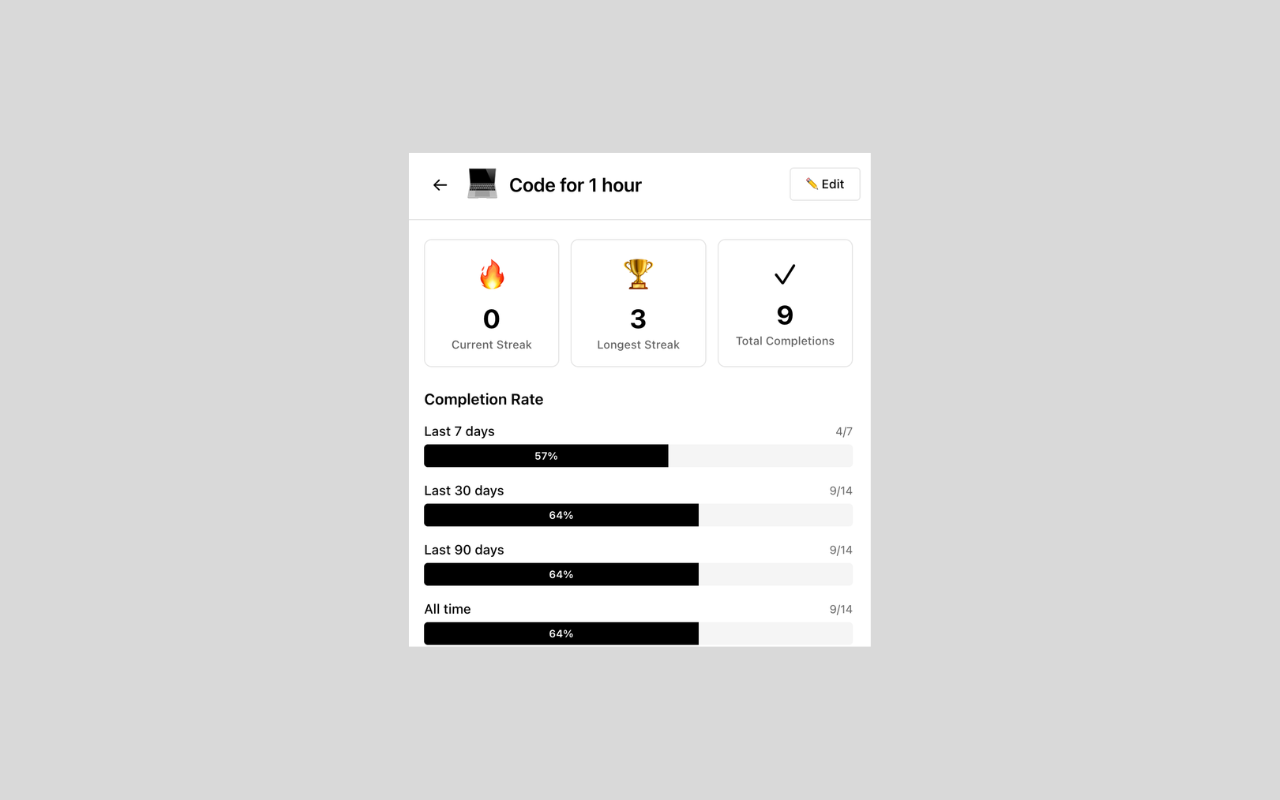
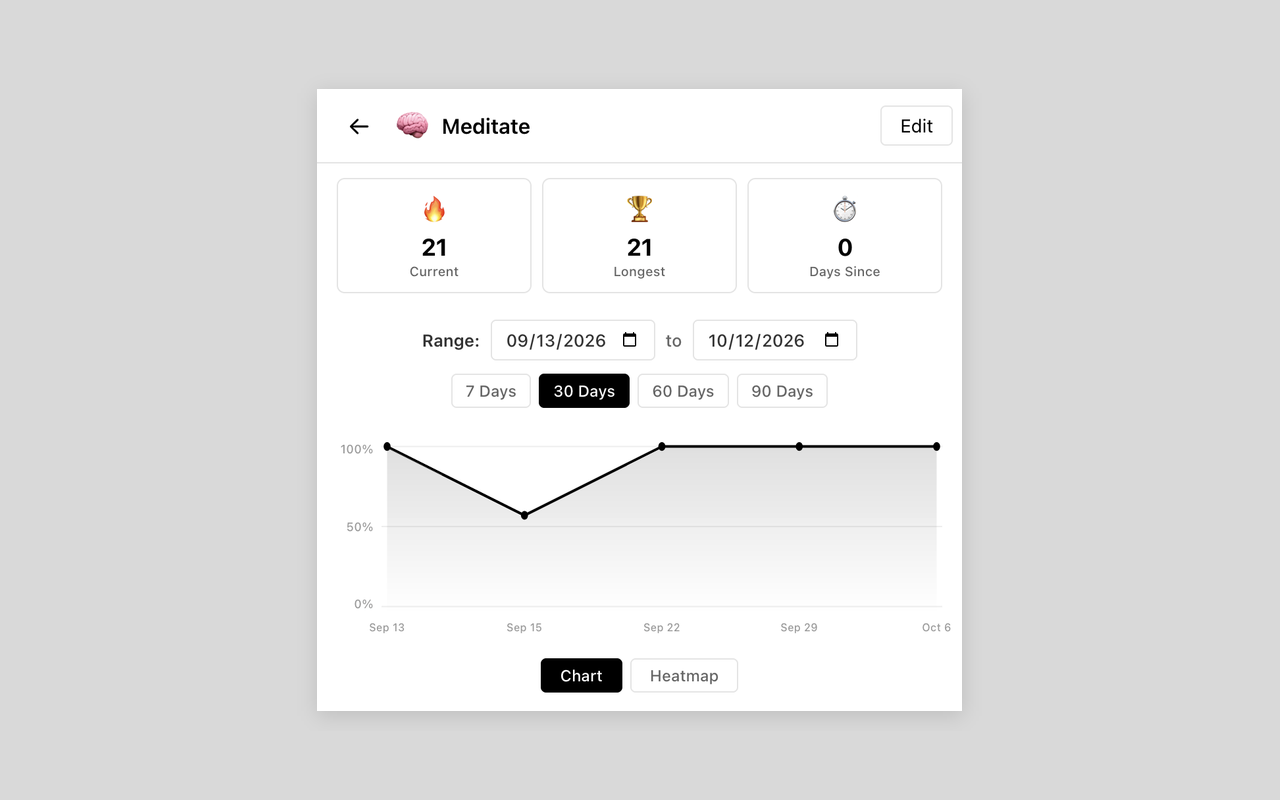
Refresh screenshots and README for v1.2.0

Changed region(s): [[0.25, 0.0938, 0.75, 0.9062]]

diff --git a/README.md b/README.md
@@ -1,9 +1,9 @@
 # 🔥 Streak Seeker
 
-A beautiful, privacy-first habit tracker Chrome extension. Track daily habits, build streaks, and visualize your progress—all without leaving your browser.
+A beautiful, privacy-first habit tracker Chrome extension. Track daily habits, build streaks, and visualize your progress, all without leaving your browser.
 
 [![Chrome Web Store](https://img.shields.io/badge/Chrome-Web%20Store-blue)](https://chromewebstore.google.com/detail/streak-seeker/jbldckdbhaibiejndigjmgdaacainphh?authuser=0&hl=en)
-[![Version](https://img.shields.io/badge/version-1.0.0-green)]()
+[![Version](https://img.shields.io/badge/version-1.2.0-green)]()
 [![License](https://img.shields.io/badge/license-MIT-blue)]()
 
 ![Streak Seeker Demo](./screenshots/main_view.png)
@@ -12,10 +12,15 @@ A beautiful, privacy-first habit tracker Chrome extension. Track daily habits, b
 
 - **🎯 Track Unlimited Habits** - Add as many habits as you want with custom emoji icons
 - **🔥 Visual Streak Tracking** - See your current streaks with fire emoji indicators
-- **📊 Interactive Heatmaps** - GitHub-style contribution graphs (7/30/90/180/365 days)
-- **📈 Detailed Stats** - Completion rates, perfect days, longest streaks
+- **📅 Today's Progress** - A progress bar on the main page shows how much of today is done
+- **📈 Line Charts** - Completion rate over time, with hover tooltips and automatic daily, weekly or monthly points
+- **📊 Heatmaps** - Calendar and GitHub-style heatmaps for any date range
+- **🗓 Custom Date Ranges** - Pick any start and end date (up to two years), or use the 7, 30, 60 and 90 day presets
+- **🏆 Habit Stats** - Current and longest streaks, days since last completed, and completion rate for your range versus since you started
+- **🥇 Overall Stats** - Completion rate, perfect days, average completions per day, and a ranking of your habits
+- **🗃 Archive Habits** - Retire a habit without losing its history; archived habits stop counting against your stats
 - **↕ Drag & Drop** - Reorder habits with smooth animations
-- **🕰 Time Travel** - Navigate through past dates to view historical data
+- **🕰 Time Travel** - Navigate through past dates on the main page
 - **🔒 100% Private** - All data stored locally using browser localStorage
 - **🚫 No Login Required** - Start tracking immediately
 - **⚡ Lightweight** - Fast and responsive
@@ -30,7 +35,7 @@ A beautiful, privacy-first habit tracker Chrome extension. Track daily habits, b
 ### From Source
 1. Clone the repository
 ```bash
-   git clone https://github.com/YOUR-USERNAME/streak-seeker.git
+   git clone https://github.com/iccir919/streak-seeker.git
    cd streak-seeker
 ```
 
@@ -61,19 +66,31 @@ A beautiful, privacy-first habit tracker Chrome extension. Track daily habits, b
 ## 📸 Screenshots
 
 ### Main View
-Track your daily habits with a clean, minimal interface.
+Track your daily habits with a clean, minimal interface. Today's progress and a link to your overall stats sit right below your habits.
 
-![Main View](screenshots/main-view.png)
+![Main View](screenshots/main_view.png)
 
 ### Overall Stats
-View comprehensive statistics and heatmaps across different time periods.
+See how all your habits are doing together. Pick any date range and switch between a line chart and a heatmap.
 
-![Overall Stats](screenshots/overall-stats.png)
+![Overall Stats](screenshots/overall_stats.png)
+![Overall Heatmap](screenshots/overall_heatmap.png)
 
 ### Habit Details
-Deep dive into individual habit performance and trends.
+Dig into a single habit: streaks, days since last completed, and a chart or heatmap for any range.
 
-![Habit Details](screenshots/habit-detail.png)
+![Habit Details](screenshots/habit_detail.png)
+![Habit Heatmap](screenshots/habit_detail_heatmap.png)
+
+### Adding a Habit
+Name it, pick an emoji, and you're set.
+
+![New Habit](screenshots/new_habit.png)
+
+### First Run
+A friendly empty state with a few popular starting points.
+
+![Empty State](screenshots/empty_state.png)
 
 ## 🎯 Usage
 
@@ -89,9 +106,16 @@ Deep dive into individual habit performance and trends.
 - Today's column is highlighted for easy reference
 
 ### Viewing Stats
-- Click "📊 Overall Stats" to see heatmaps and insights
-- Click any habit emoji to view detailed statistics
-- Use ← → buttons to navigate through different time periods
+- Click "📊 Overall Stats" to see charts, heatmaps and a ranking of your habits
+- Click any habit emoji to open that habit's detail view
+- Use the date boxes to pick any range, or tap 7, 30, 60 or 90 Days
+- Switch between Chart and Heatmap under the graph
+- Use the ← → buttons on the main page to move through past dates
+
+### Archiving and Deleting
+- Open a habit's ≡ menu to Edit, Archive or Delete it
+- Archived habits move to the "Archived" list at the bottom, and their history is kept
+- Unarchive a habit from the same menu to bring it back
 
 ### Reordering Habits
 - Click and drag the ⋮ handle to reorder habits
@@ -131,11 +155,13 @@ streak-seeker/
 │   │   ├── HabitList.jsx
 │   │   ├── HabitRow.jsx
 │   │   ├── HabitModal.jsx
+│   │   ├── ActionMenu.jsx
+│   │   ├── ArchivedHabitList.jsx
 │   │   ├── HabitDetailView.jsx
 │   │   └── OverallView.jsx
 │   ├── utils/            # Utility functions
 │   │   ├── storage.js    # localStorage operations
-│   │   └── dateHelpers.js
+│   │   └── dateHelpers.js  # Date ranges and streak math
 │   ├── App.jsx           # Main app component
 │   └── main.jsx          # Entry point
 ├── dist/                 # Build output
